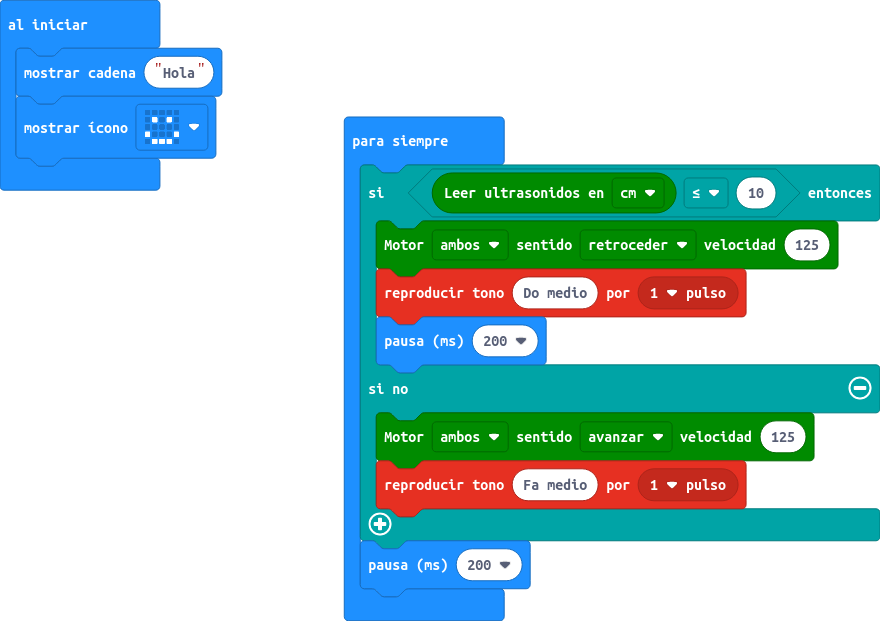
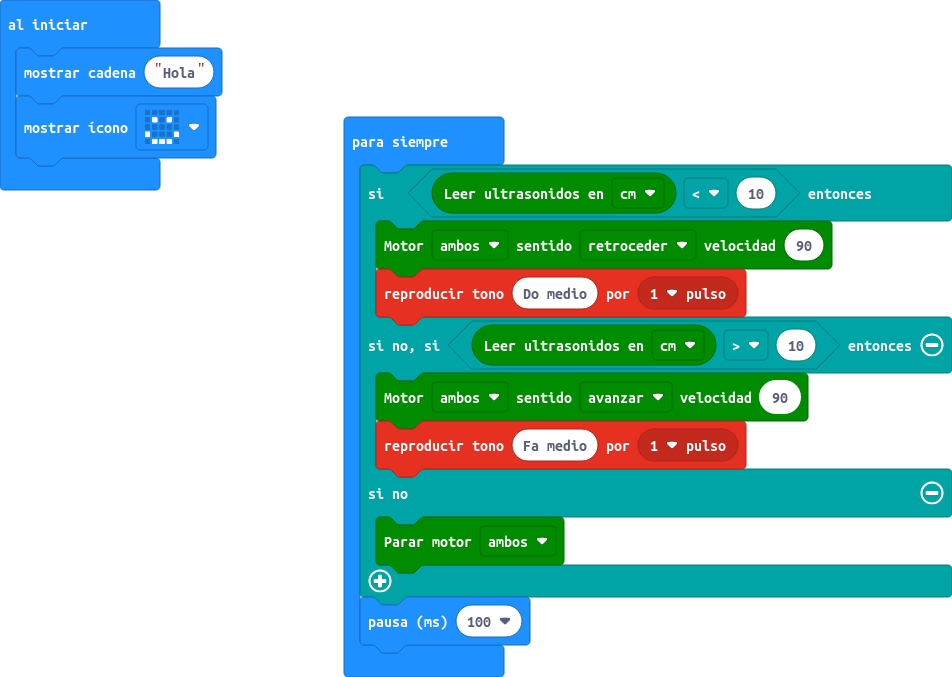
Mejoras. Que se pare cuando la distancia sea exactamente 10 cm

diff --git a/main.ts b/main.ts
@@ -1,13 +1,14 @@
 basic.showString("Hola")
 basic.showIcon(IconNames.Happy)
 basic.forever(function () {
-    if (maqueen.Ultrasonic(PingUnit.Centimeters) <= 10) {
-        maqueen.motorRun(maqueen.Motors.All, maqueen.Dir.CCW, 125)
+    if (maqueen.Ultrasonic(PingUnit.Centimeters) < 10) {
+        maqueen.motorRun(maqueen.Motors.All, maqueen.Dir.CCW, 90)
         music.playTone(262, music.beat(BeatFraction.Whole))
-        basic.pause(200)
-    } else {
-        maqueen.motorRun(maqueen.Motors.All, maqueen.Dir.CW, 125)
+    } else if (maqueen.Ultrasonic(PingUnit.Centimeters) > 10) {
+        maqueen.motorRun(maqueen.Motors.All, maqueen.Dir.CW, 90)
         music.playTone(349, music.beat(BeatFraction.Whole))
+    } else {
+        maqueen.motorStop(maqueen.Motors.All)
     }
-    basic.pause(200)
+    basic.pause(100)
 })
